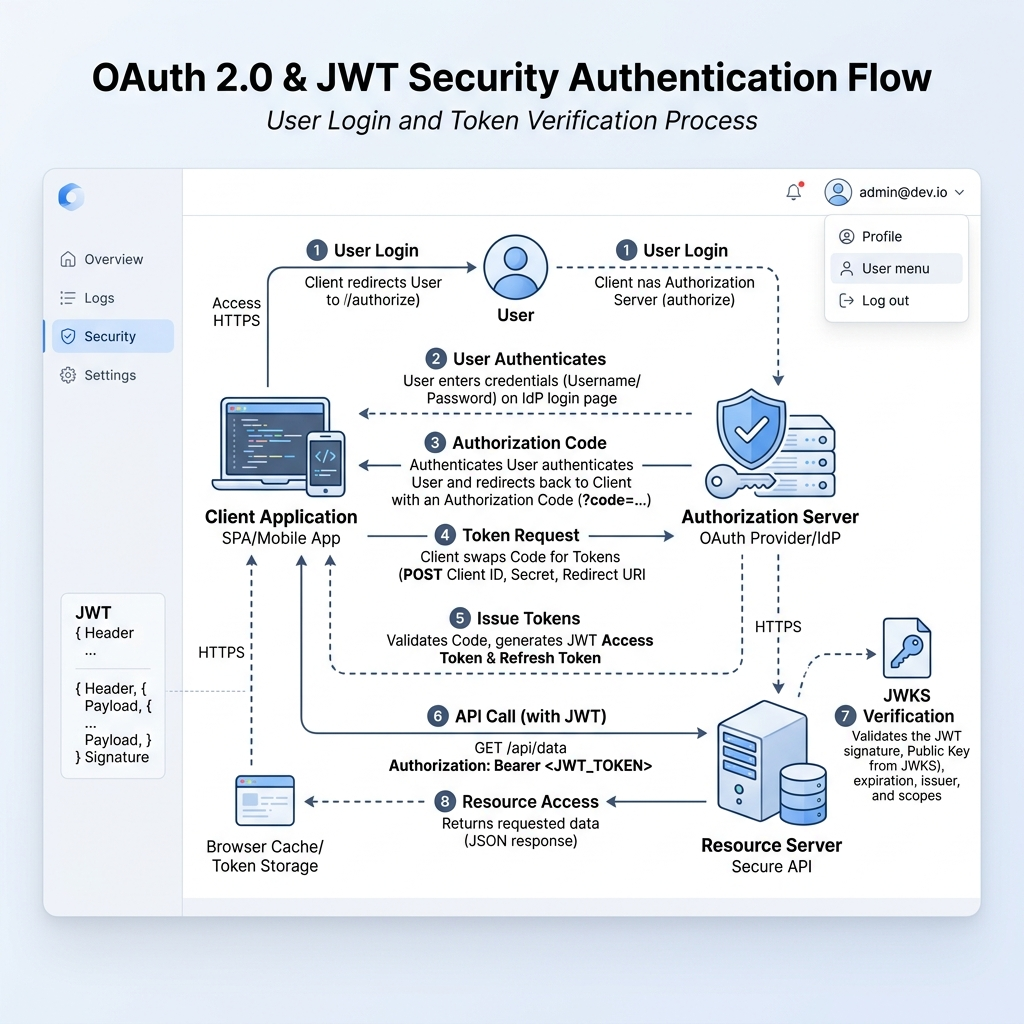
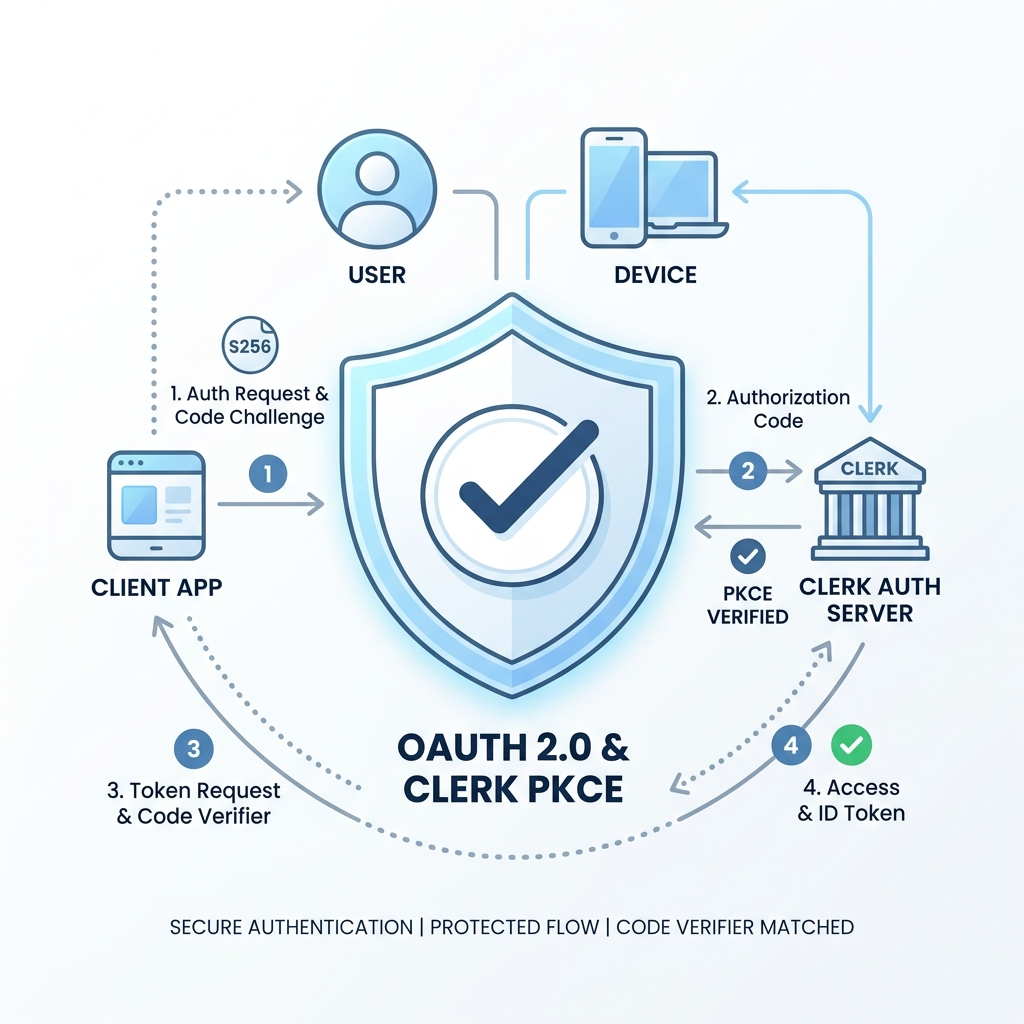
fix: resolve missing image references for Phase 1 (step_01_intent.png) and Phase 5 (step_05_sandbox.png)

Changed region(s): [[0.0312, 0.0625, 0.9688, 0.9375], [0.1562, 0.1562, 0.1875, 0.1875]]

diff --git a/index.html b/index.html
@@ -2300,7 +2300,7 @@
       desc: "The developer submits a high-level intent prompt from any mobile browser. The request is structured into a normalized JSON payload containing repository target, branch name, prompt directives, and authorization signatures without triggering local compilation.",
       pill1: "Mobile Web UI",
       pill2: "HTTPS Post",
-      img: "images/step_01_intent_1785155006278.png"
+      img: "images/step_01_intent.png"
     },
     2: {
       number: "02",
@@ -2336,7 +2336,7 @@
       desc: "The agent clones the repository into an isolated Docker container, creates a dedicated feature branch, and applies repository-level code edits to source files, dependencies, and configurations.",
       pill1: "Docker Sandbox",
       pill2: "Git Workspace",
-      img: "images/step_sandbox_git_1785154905586.png"
+      img: "images/step_05_sandbox.png"
     },
     6: {
       number: "06",
